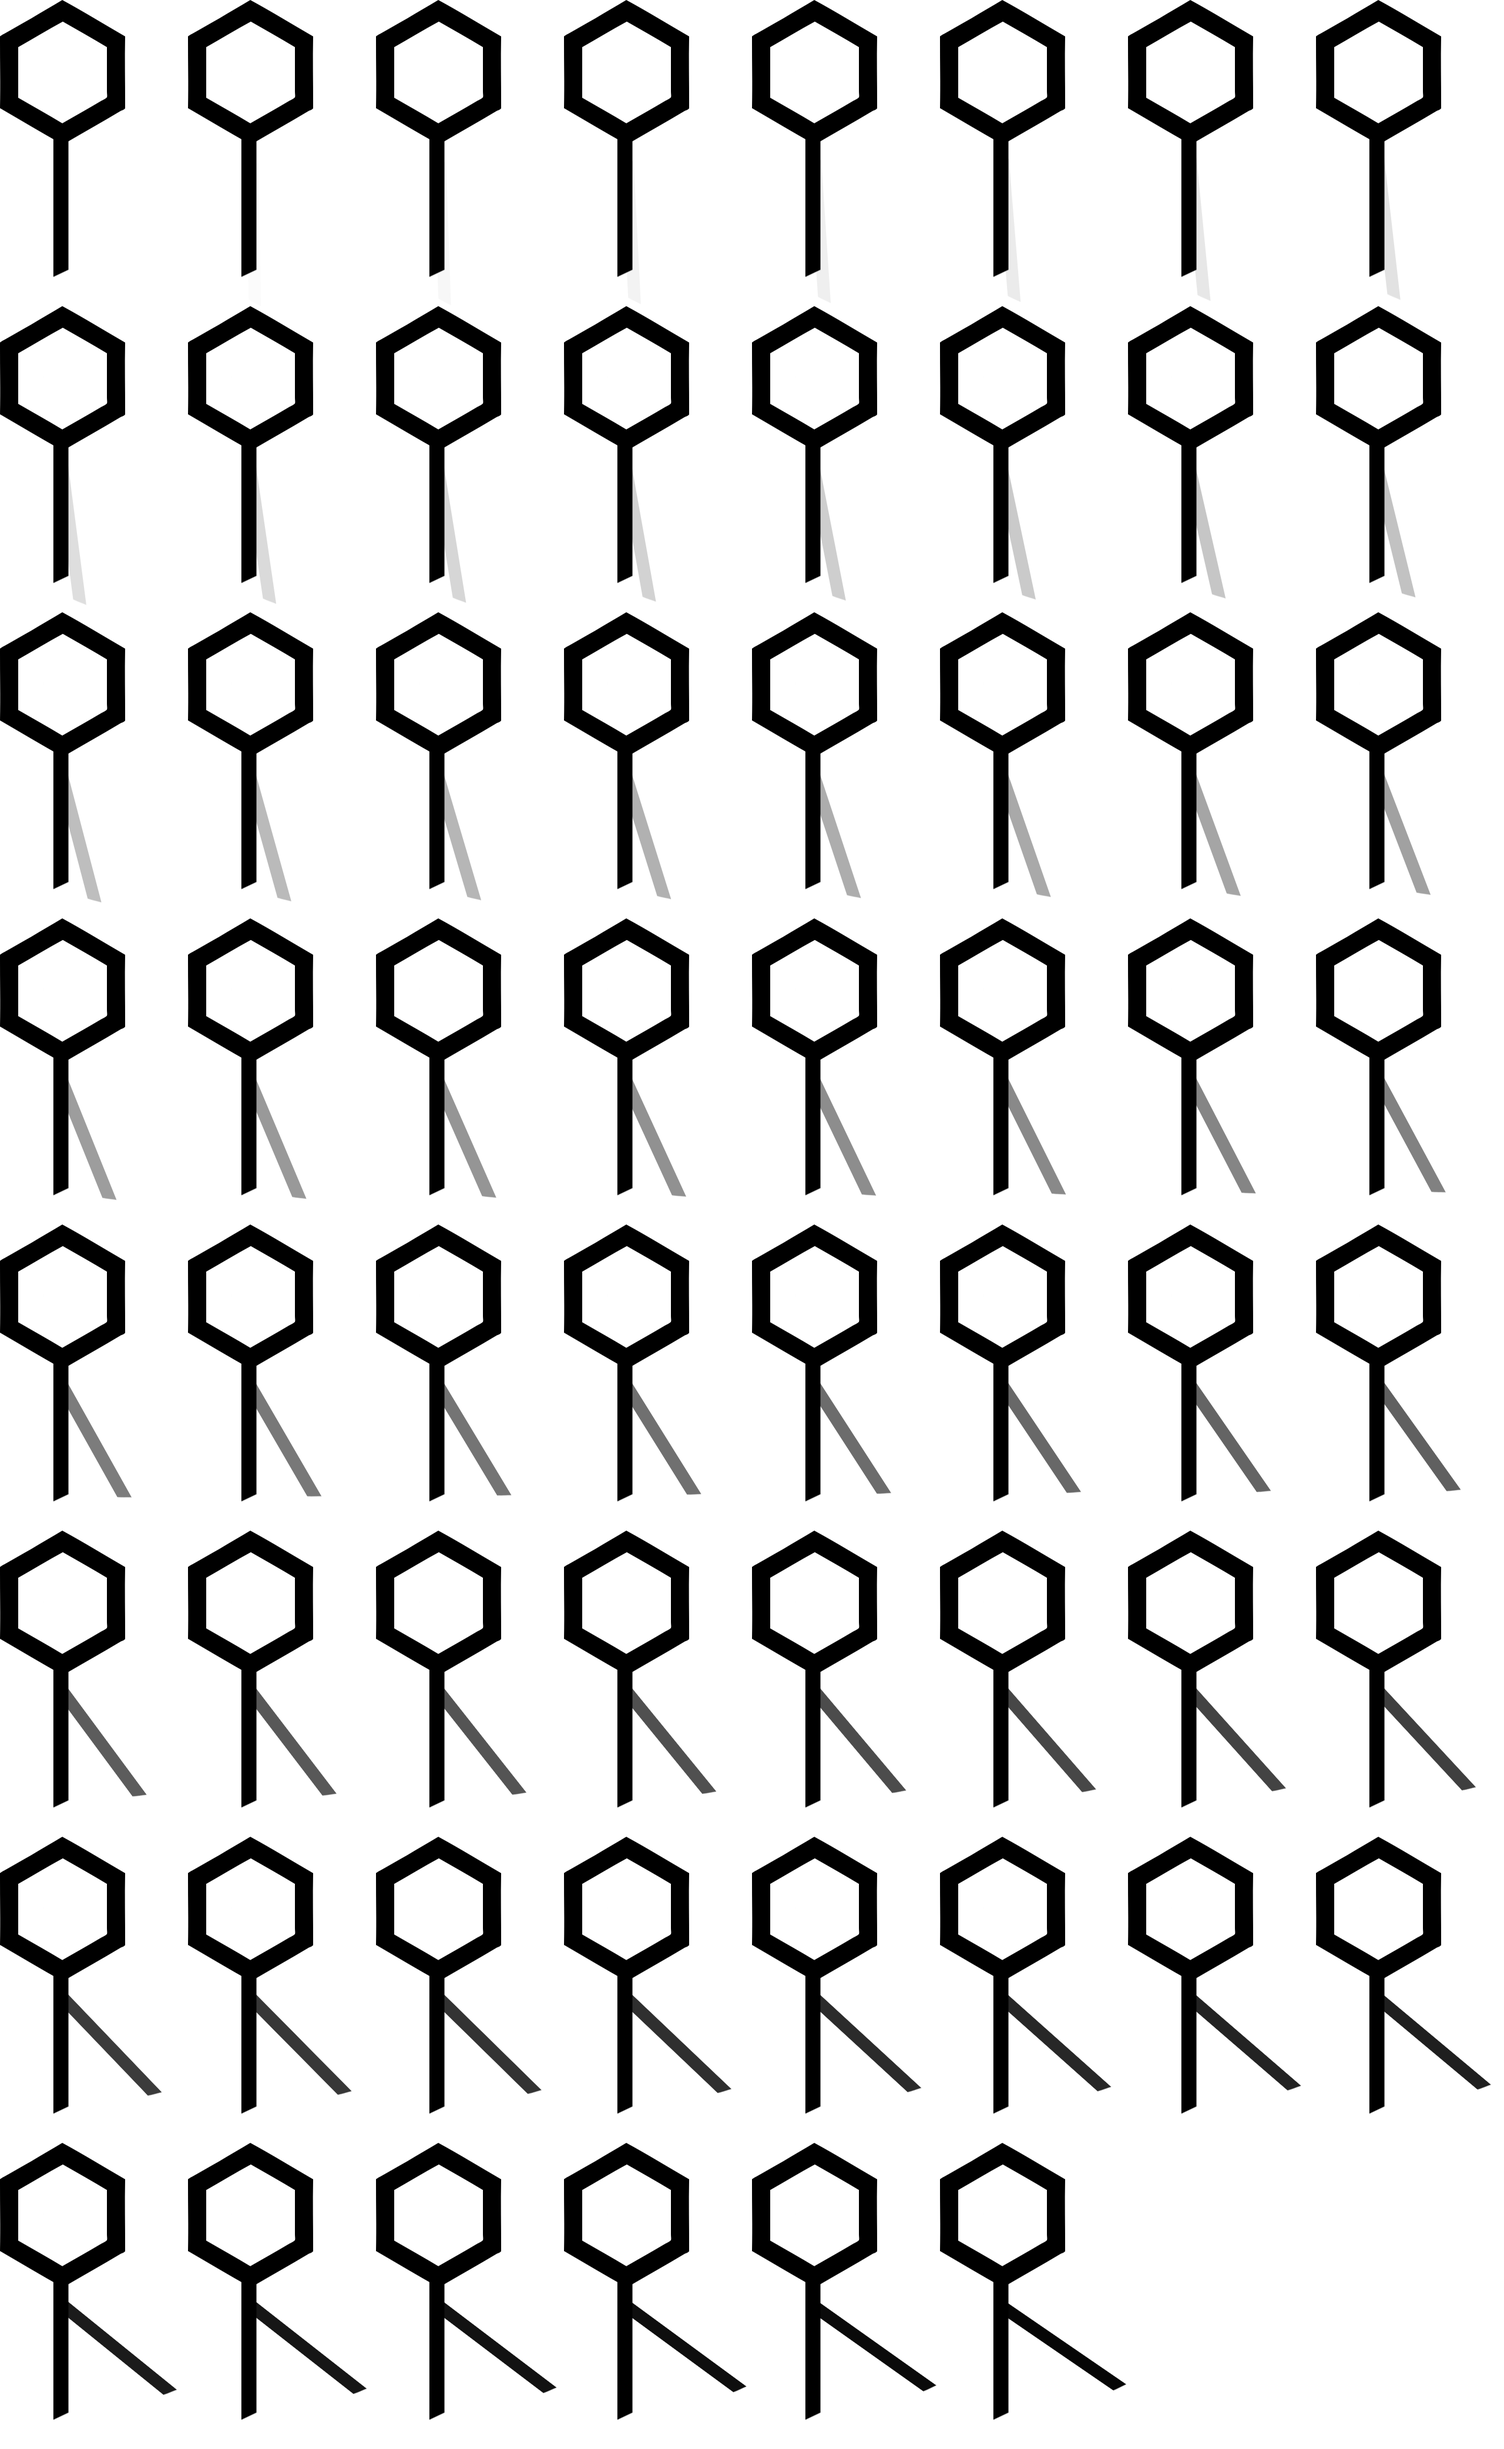
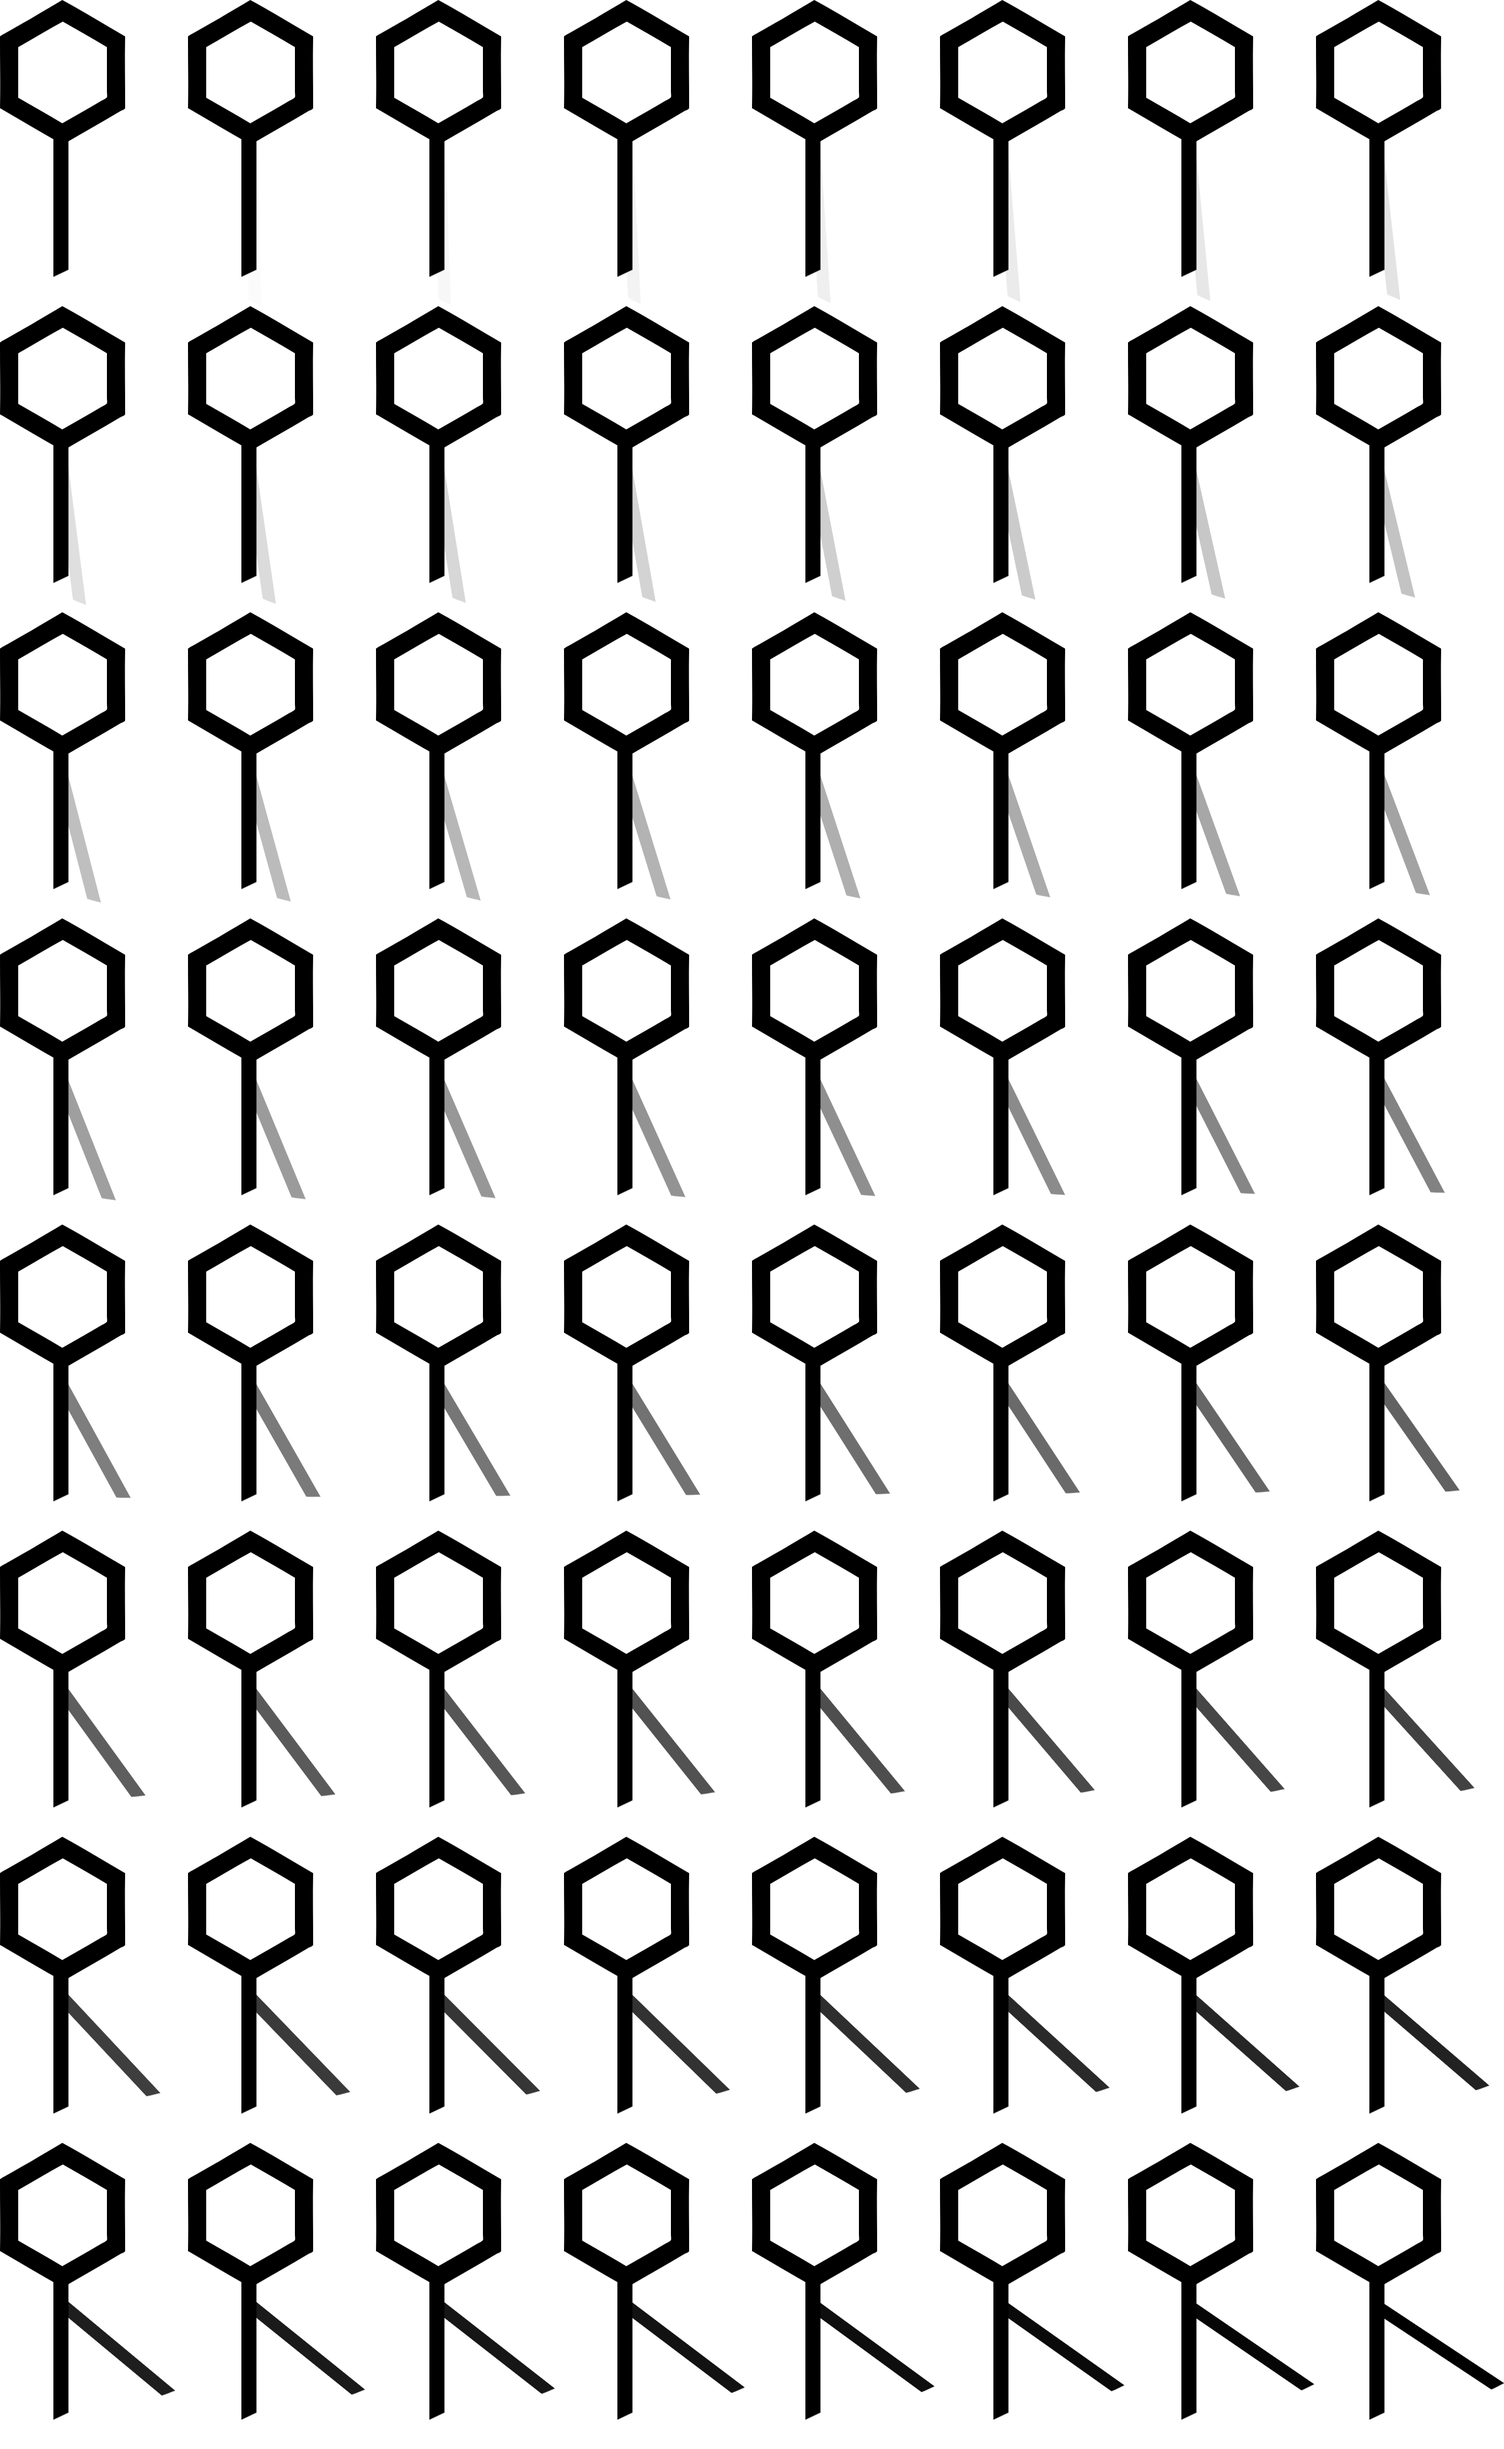
fixed animations

diff --git a/src/scenes/game.cpp b/src/scenes/game.cpp
@@ -7,6 +7,7 @@ Game::Game() {
     ASSET_MANAGER.LoadFont("res/fonts/league-gothic.ttf", 25, "league-credits");
     ASSET_MANAGER.LoadDict("res/data/words.txt", "words");
     ASSET_MANAGER.LoadImage("res/animations/AddHead.png", "head");
+    ASSET_MANAGER.LoadImage("res/animations/AddTorso.png", "torso");
     ASSET_MANAGER.LoadImage("res/animations/AddRArm.png", "right-arm");
     ASSET_MANAGER.LoadImage("res/animations/AddLArm.png", "left-arm");
     ASSET_MANAGER.LoadImage("res/animations/AddRLeg.png", "right-leg");
@@ -32,7 +33,7 @@ Game::Game() {
     _TheWord = ASSET_MANAGER.GetDict("words").at(rand() % ASSET_MANAGER.GetDict("words").size());
     for (unsigned long i = 0; i < _TheWord.size(); i++) _DisplayWord += _TheWord.at(i) == ' ' ? " " : "_";
 
-    _Hangman->Play(200,200, true);
+    _Hangman->Play(200,200, false);
 }
 
 Game::~Game() {
